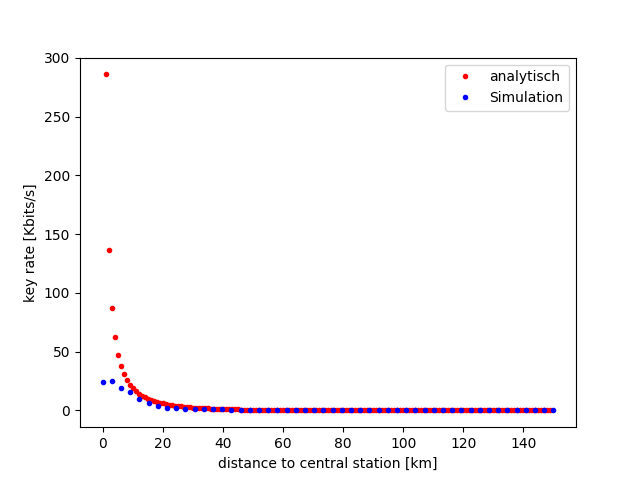
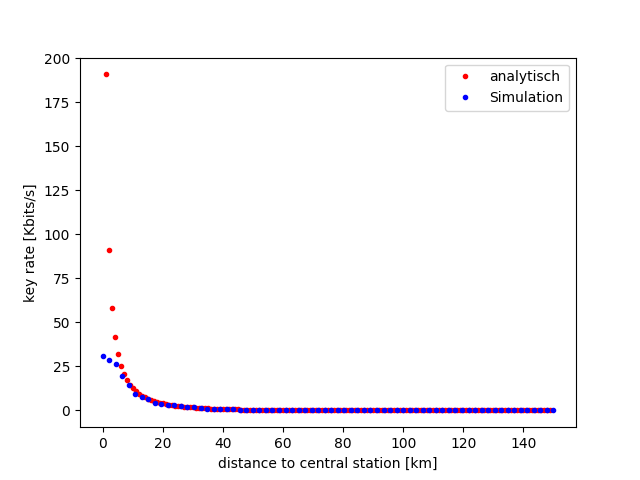
comparable results

diff --git a/scenarios/base_scenario/base_scenario.py b/scenarios/base_scenario/base_scenario.py
@@ -435,6 +435,6 @@ if __name__ == "__main__":
     plt.legend()
     plt.xlabel("distance to central station [km]")
     plt.ylabel("key rate [Kbits/s]")
-    plt.yscale("log")
+    # plt.yscale("log")
     # # plt.grid()
     plt.show()
